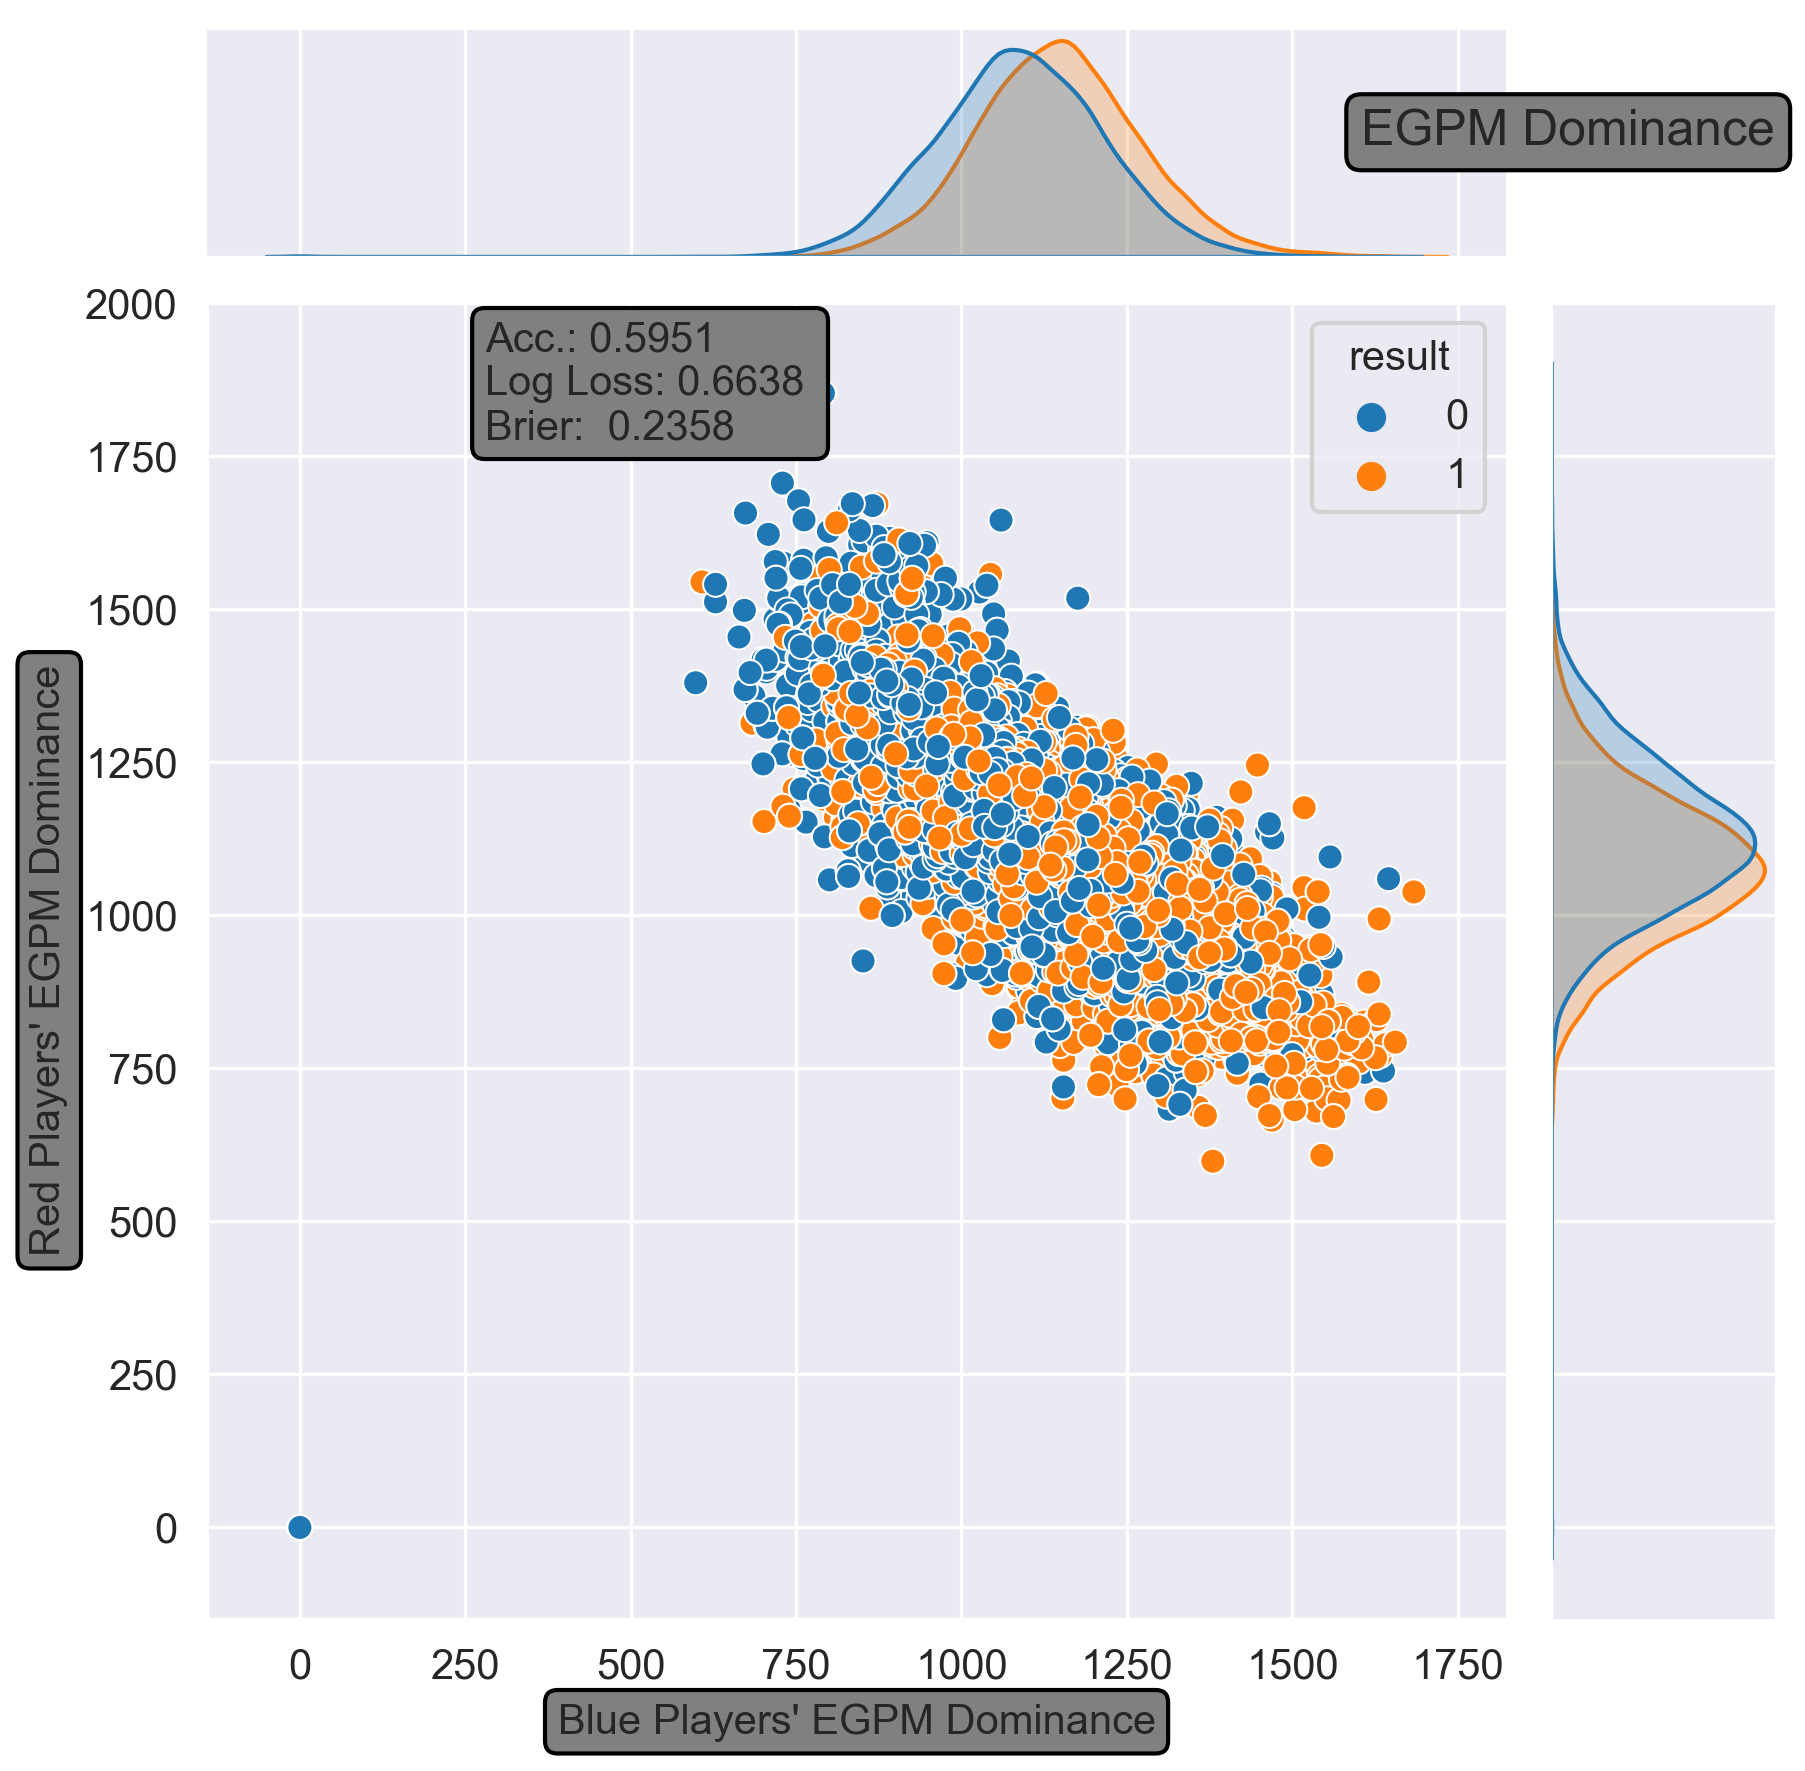
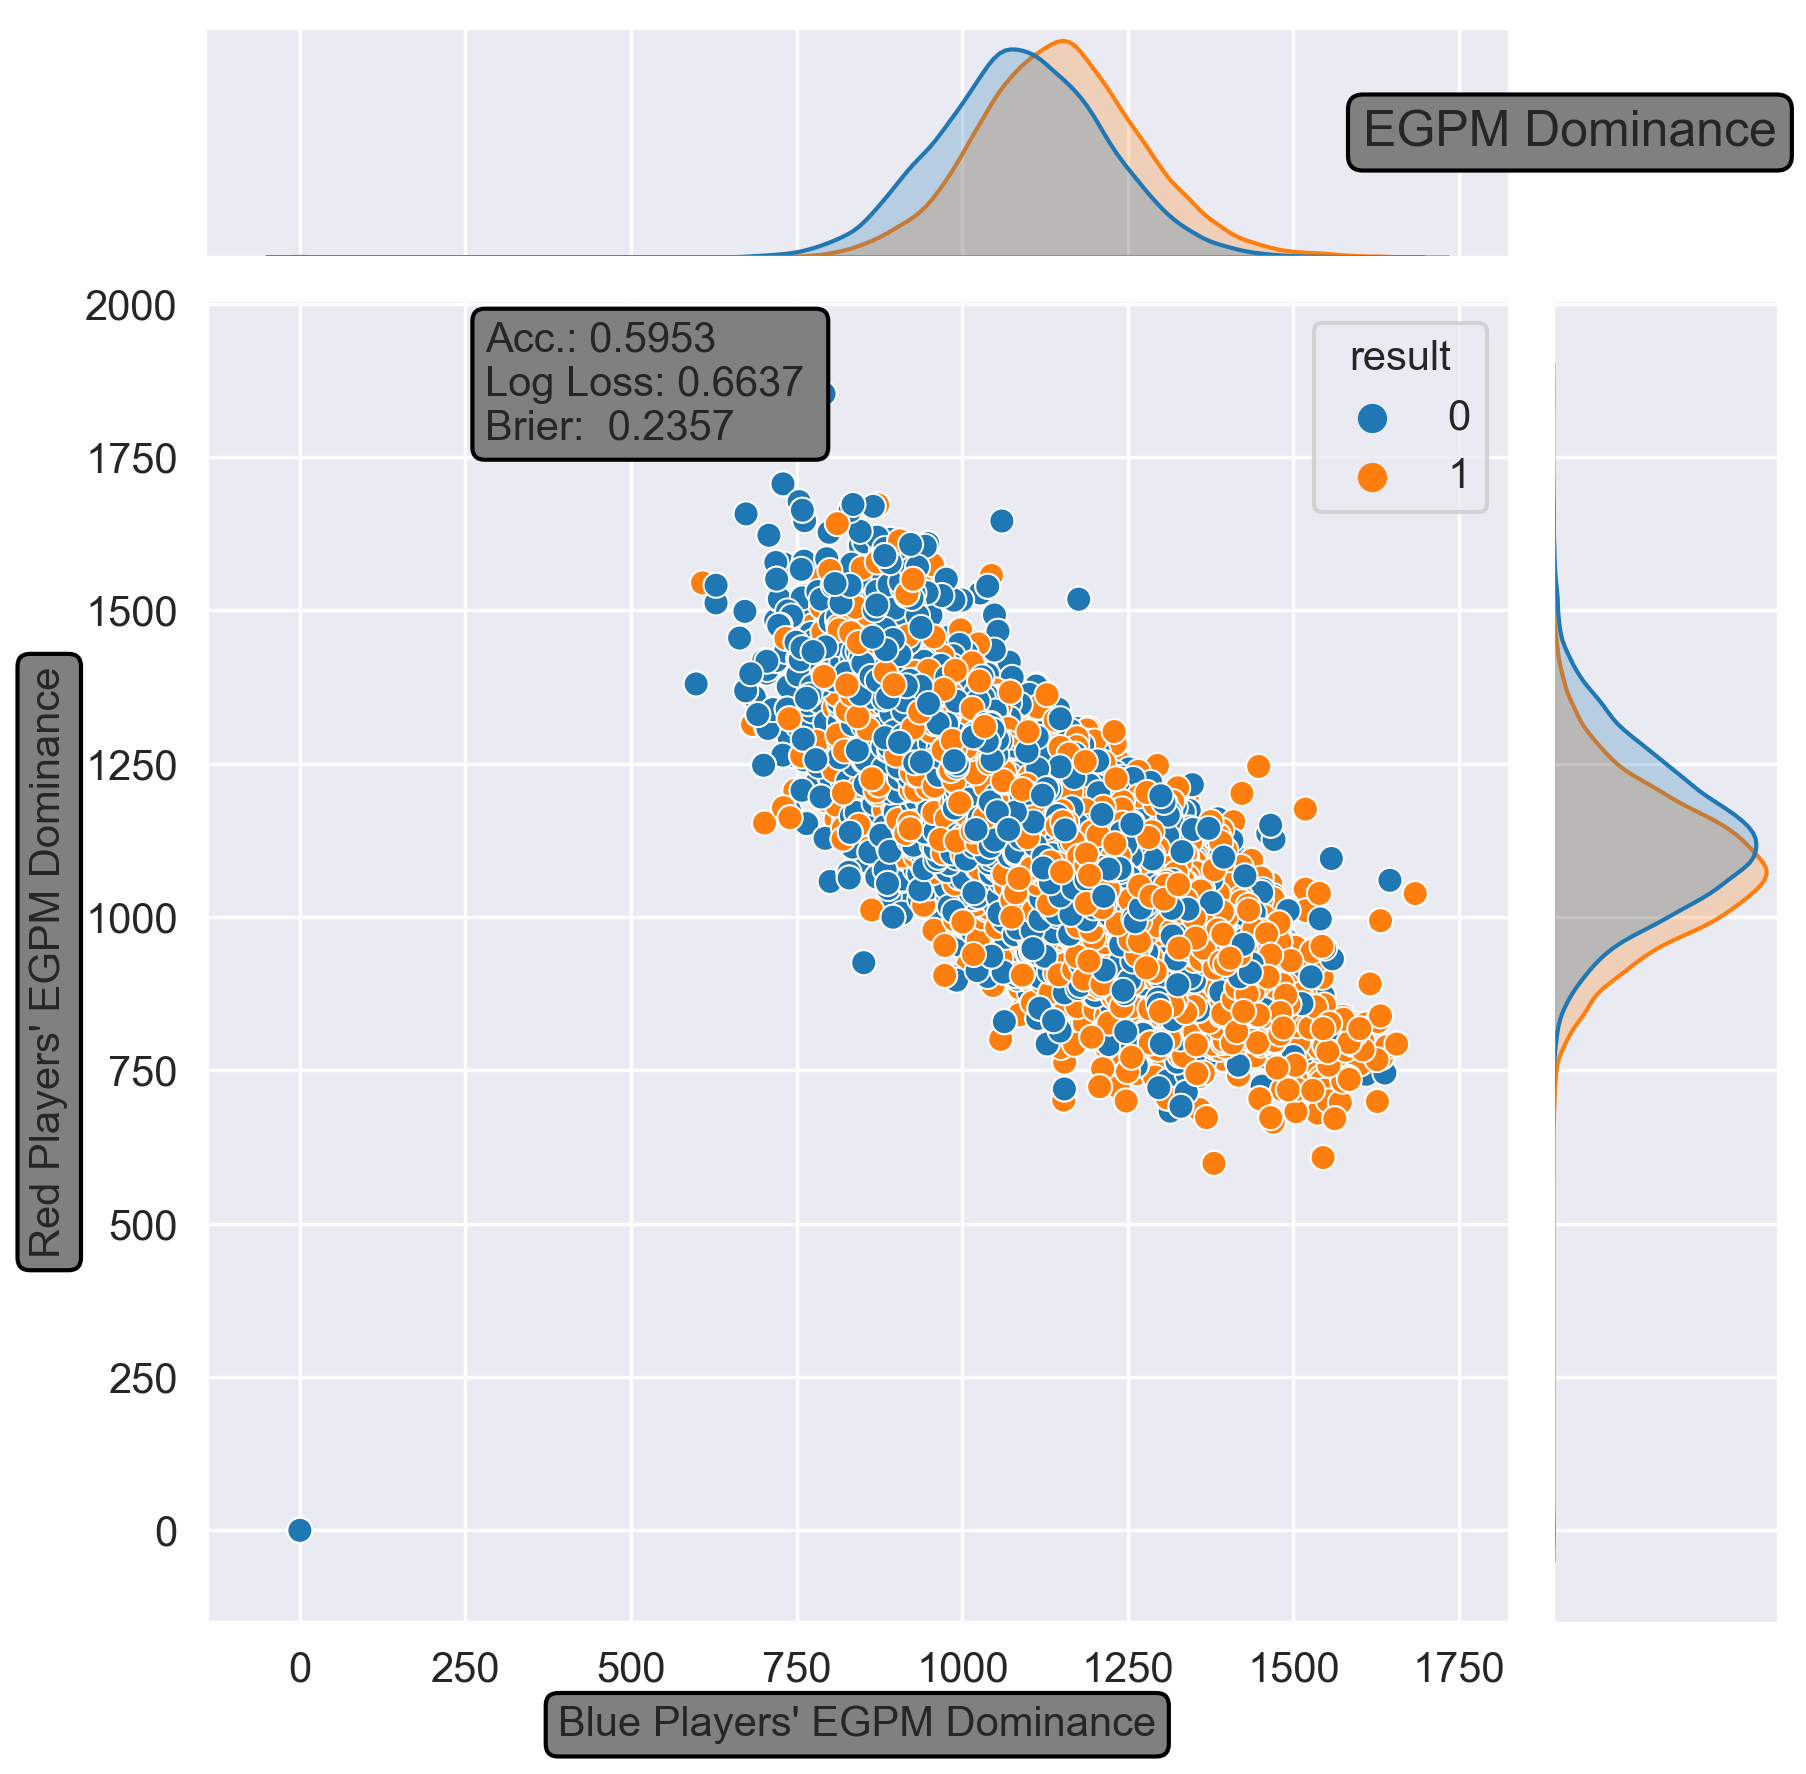
Updates
Simple updates, including fixing a typo to the pkl file.

diff --git a/src/lol_modeling.py b/src/lol_modeling.py
@@ -740,7 +740,7 @@ def egpm_model(data: pd.DataFrame, entity: str) -> pd.DataFrame:
     data['egpm_dom_logistic_win_perc'] = probabilities[:, 1]
 
     # Export Model Pickle File
-    filepath = Path.cwd().parent.joinpath('models', 'egpm_dom_logistic_regression.csv')
+    filepath = Path.cwd().parent.joinpath('models', 'egpm_dom_logistic_regression.pkl')
     pickle.dump(clf, open(filepath, 'wb'))
 
     return data

diff --git a/src/match_predictor.py b/src/match_predictor.py
@@ -216,6 +216,7 @@ def predict(blue_team: str, blue1: str, blue2: str, blue3: str, blue4: str, blue
 
     match = predict_match(blue, red)
     output = pd.concat([output, match], ignore_index=True)
+    output["blue_win_chance"] = output["blue_win_chance"].astype('int32')
 
     if verbose:
         output = output[["blue", "red", "blue_win_chance", "deviation",

diff --git a/README.md b/README.md
@@ -35,19 +35,19 @@ Thus, the current model is comprised of four major models:
 
 [Elo documentation](https://medium.com/purple-theory/what-is-elo-rating-c4eb7a9061e0). This model looks at a shorter period of data. The K value was set by a lot of iterative trial and error, testing until I found the best fit. 
 
-**Current Tested Accuracy: 61.72%, Log Loss: 64.85% - on Dec 23, 2021**
+**Current Tested Accuracy: 61.79%, Log Loss: 0.6498, Brier Score: 0.2290 - on Feb 24, 2021**
 
 ### Player Based Elo
 
 This model looks at the performance of each individual player. This model is more resistant to players changing teams, or moving back and forth between academy and main leagues. However, this model also has the issue of incorporating the effects of the other 4 players on the team into the player's elo. 
 
-**Most Recent Tested Accuracy: 62.73%, Log Loss: 64.38% - on Dec 23, 2021**
+**Most Recent Tested Accuracy: 62.60%, Log Loss: 0.6423, Brier Score: 0.2257 - on Feb 24, 2021**
 
 ### TrueSkill
 
 [TrueSkill documentation](https://www.microsoft.com/en-us/research/project/trueskill-ranking-system/). TrueSkill is calculated on a player-basis for the past two years. TrueSkill is much better oriented to monitor player-level effects and skill, and also uses mu and sigma values to capture a player's mean and variance in their performance. 
 
-**Most Recent Tested Accuracy: 61.95%, Log Loss: 68.54% - on Dec 23, 2021**
+**Most Recent Tested Accuracy: 62.48%, Log Loss: 0.6404, Brier: 0.2250 - on Feb 24, 2021**
 
 ### TrueSkill-Normalized EGPM Dominance
 
@@ -55,13 +55,19 @@ This model is one that I developed myself, and is slightly more difficult to exp
 
 According to relative importance and multiple regression analysis, Gold is by far the most individually significant stat to monitor in League of Legends as an esport. This model looks at a team's gold lead over their opponent, and uses that as a proxy to measure the "strength of the win". EGPM stands for "Earned Gold Per Minute" and is a stat measured in the Oracle's Elixir data. The intent is to monitor a team's Earned Gold Per Minute over their opponent, relative to each team's average EGPM value. The way this is set up is that if the 1st place team in the league loses to the 10th place team in the league, where the 10th place team has a much higher EGPM statistic, the 1st place team is penalized significantly more than if they lost in a close game to the 2nd place team in the league. This is similar to elo, but the EGPM statistic is used to quantify the "strength of the win". 
 
-**Most Recent Tested Accuracy: 59.13%, Log Loss: 66.99% - on Dec 23, 2021**
+**Most Recent Tested Accuracy: 59.53%, Log Loss: 0.6637, Brier Score: 0.2357 - on Feb 24, 2021**
+
+### Side Win Rate (Exponential Moving Average)
+
+This model uses an exponentially-weighted moving average to examine recent side win rate data in an attempt to quantify a team's drafting style and success. The way the exponential moving average works is that the most recent 9 games (one round robin, for LCS/LEC) are weighted at 100% weight, and then the 9 games prior to those are weighted at 50%, and so on and so forth.
+
+**Most Recent Tested Accuracy: 51.93%, Log Loss: 1.6623, Brier: 0.2700 - on Feb 24, 2021**
 
 ### How It Gets Ensembled
 
-Each of the four models' predictions is output in the document, so you can see the individual performance. This output also comes with an average that's calculated by weighting each model's accuracy into an average of all four model probability scores. A standard deviation value is also computed, so you get the ensemble model's weighted average, and standard deviation, alongside each of the four individual model probability scores as well. 
+It is essentially a weighted average, where each model is weighted based on its historical accuracy. Each of the models' predictions is output in the document, so you can see the individual performance. This output also comes with an average that's calculated by weighting each model's accuracy into an average of all model probability scores. A standard deviation value is also computed, so you get the ensemble model's weighted average, and standard deviation, alongside each of the four individual model probability scores as well. 
 
-**Ensemble Tested Accuracy: 63.40, Log Loss: 63.83% - on Dec 23, 2021**
+**Ensemble Tested Accuracy: 63.66%, Log Loss: 0.6425, Brier Score: 0.2255 - on Feb 24, 2021**
 
 **Experimental ML Model Accuracy: 65.601% - on Dec 28, 2021** - this is still experimental and under development. 
  
